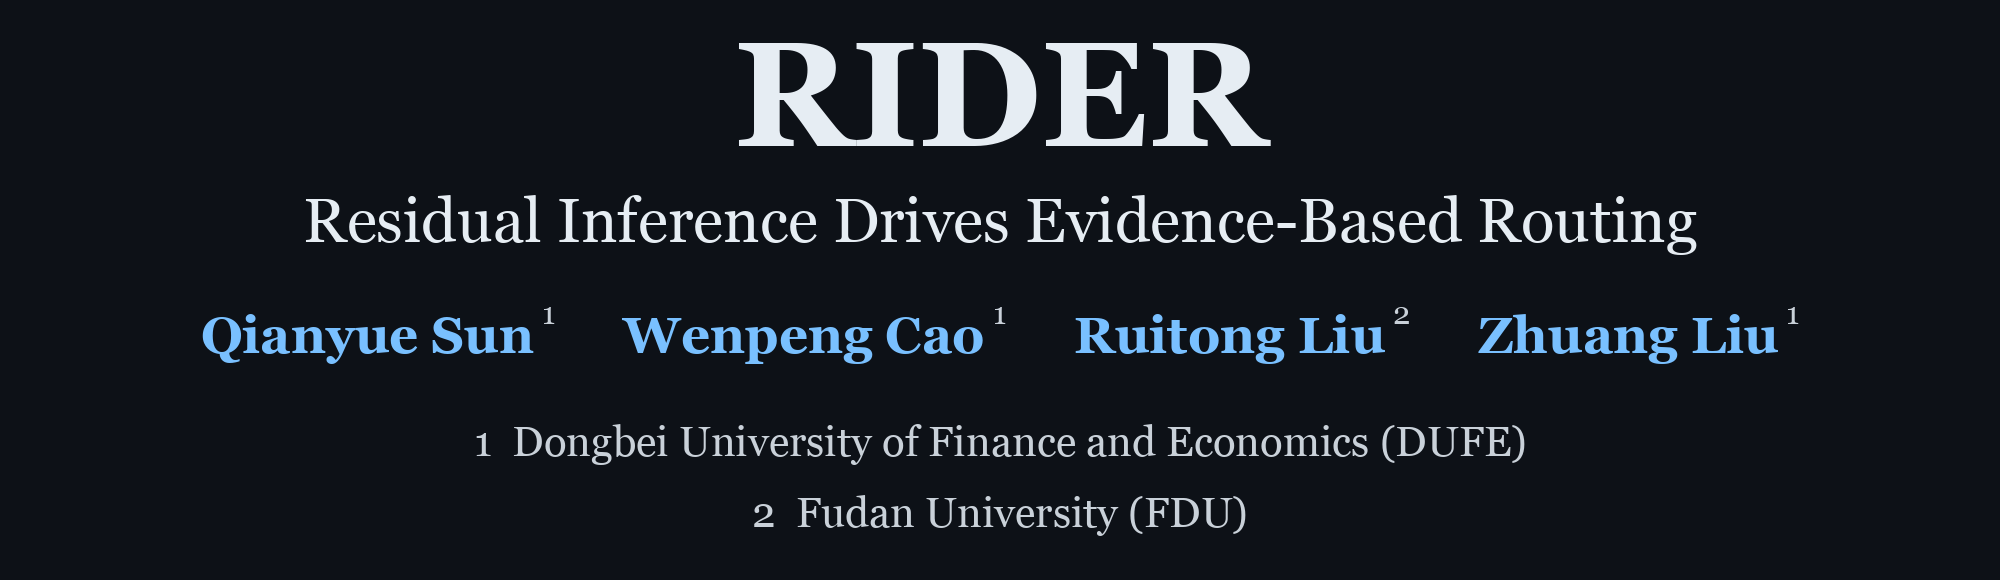
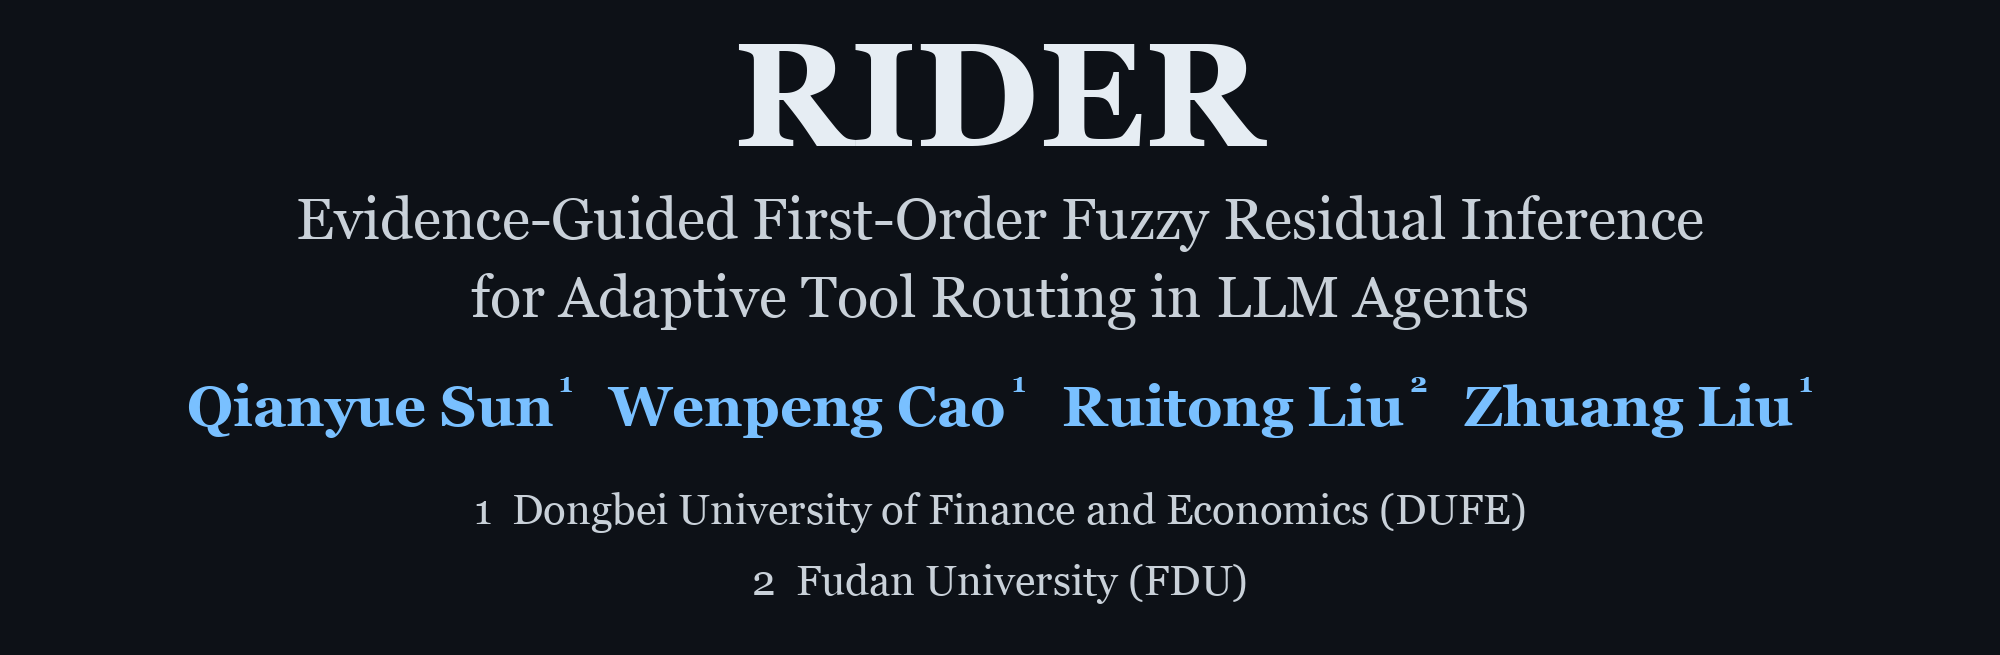
Update title header and citation to the revised manuscript title

diff --git a/README.md b/README.md
@@ -4,7 +4,7 @@
 
 <picture>
   <source media="(prefers-color-scheme: dark)" srcset="assets/readme/header_dark.png">
-  <img src="assets/readme/header_light.png" width="90%" alt="RIDER: Residual Inference Drives Evidence-Based Routing — Qianyue Sun (1), Wenpeng Cao (1), Ruitong Liu (2), Zhuang Liu (1); 1 DUFE, 2 FDU">
+  <img src="assets/readme/header_light.png" width="90%" alt="RIDER: Evidence-Guided First-Order Fuzzy Residual Inference for Adaptive Tool Routing in LLM Agents — Qianyue Sun (1), Wenpeng Cao (1), Ruitong Liu (2), Zhuang Liu (1); 1 DUFE, 2 FDU">
 </picture>
 
 <p>
@@ -170,7 +170,7 @@ Provisional manuscript citation:
 
 ```bibtex
 @misc{sun2026rider,
-  title={RIDER: Residual Inference Drives Evidence-Based Routing},
+  title={RIDER: Evidence-Guided First-Order Fuzzy Residual Inference for Adaptive Tool Routing in LLM Agents},
   author={Sun, Qianyue and Cao, Wenpeng and Liu, Ruitong and Liu, Zhuang},
   year={2026},
   note={Manuscript}
